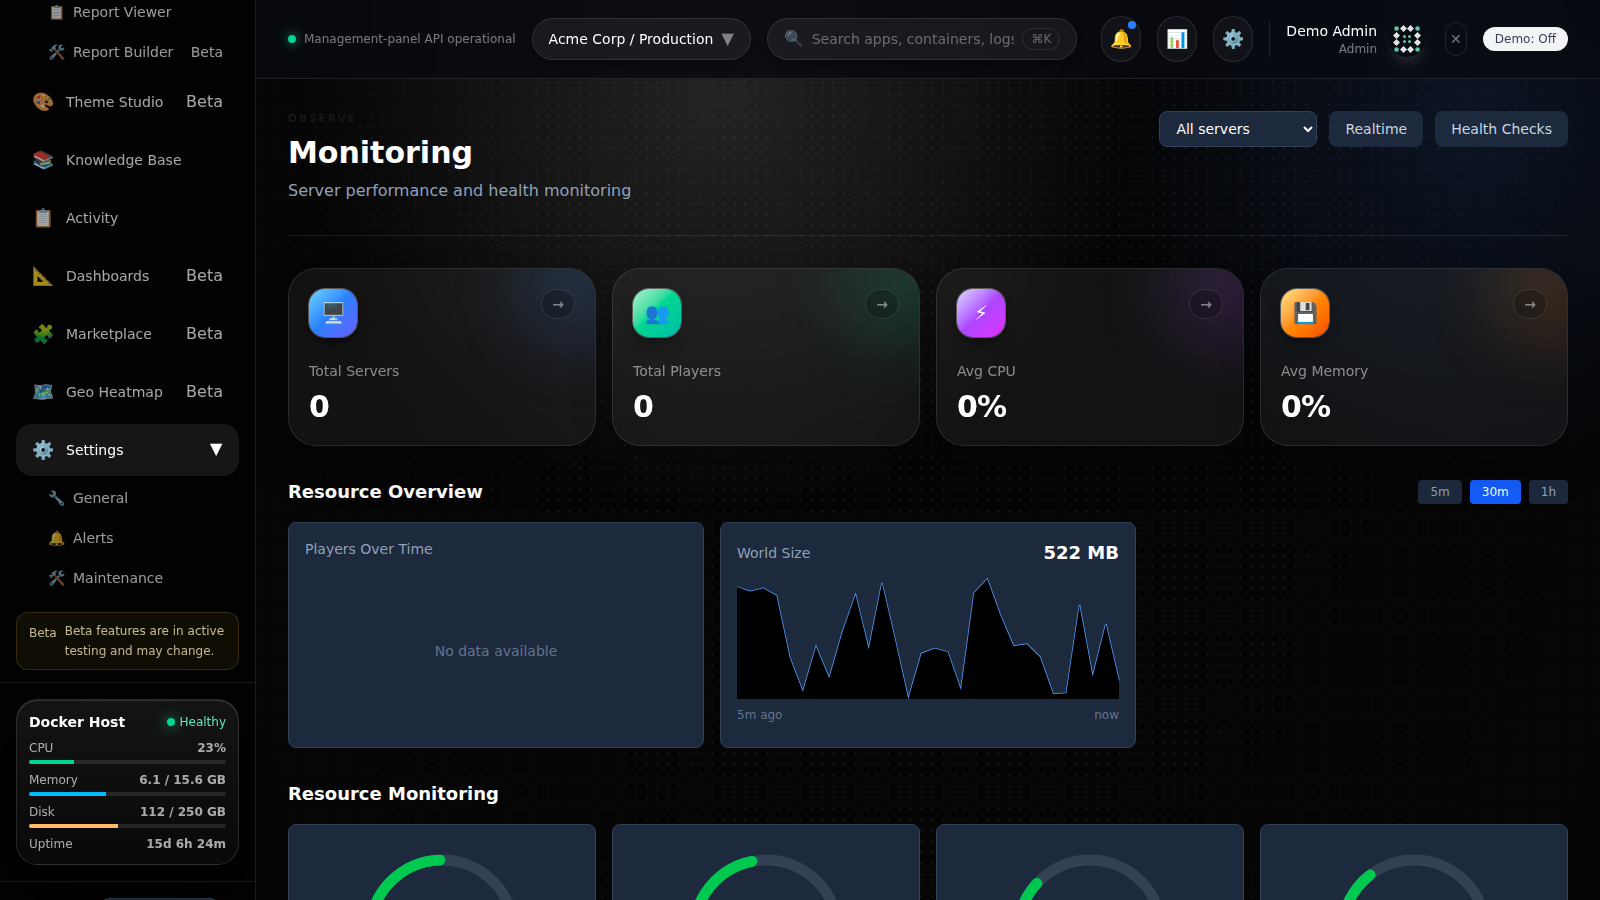
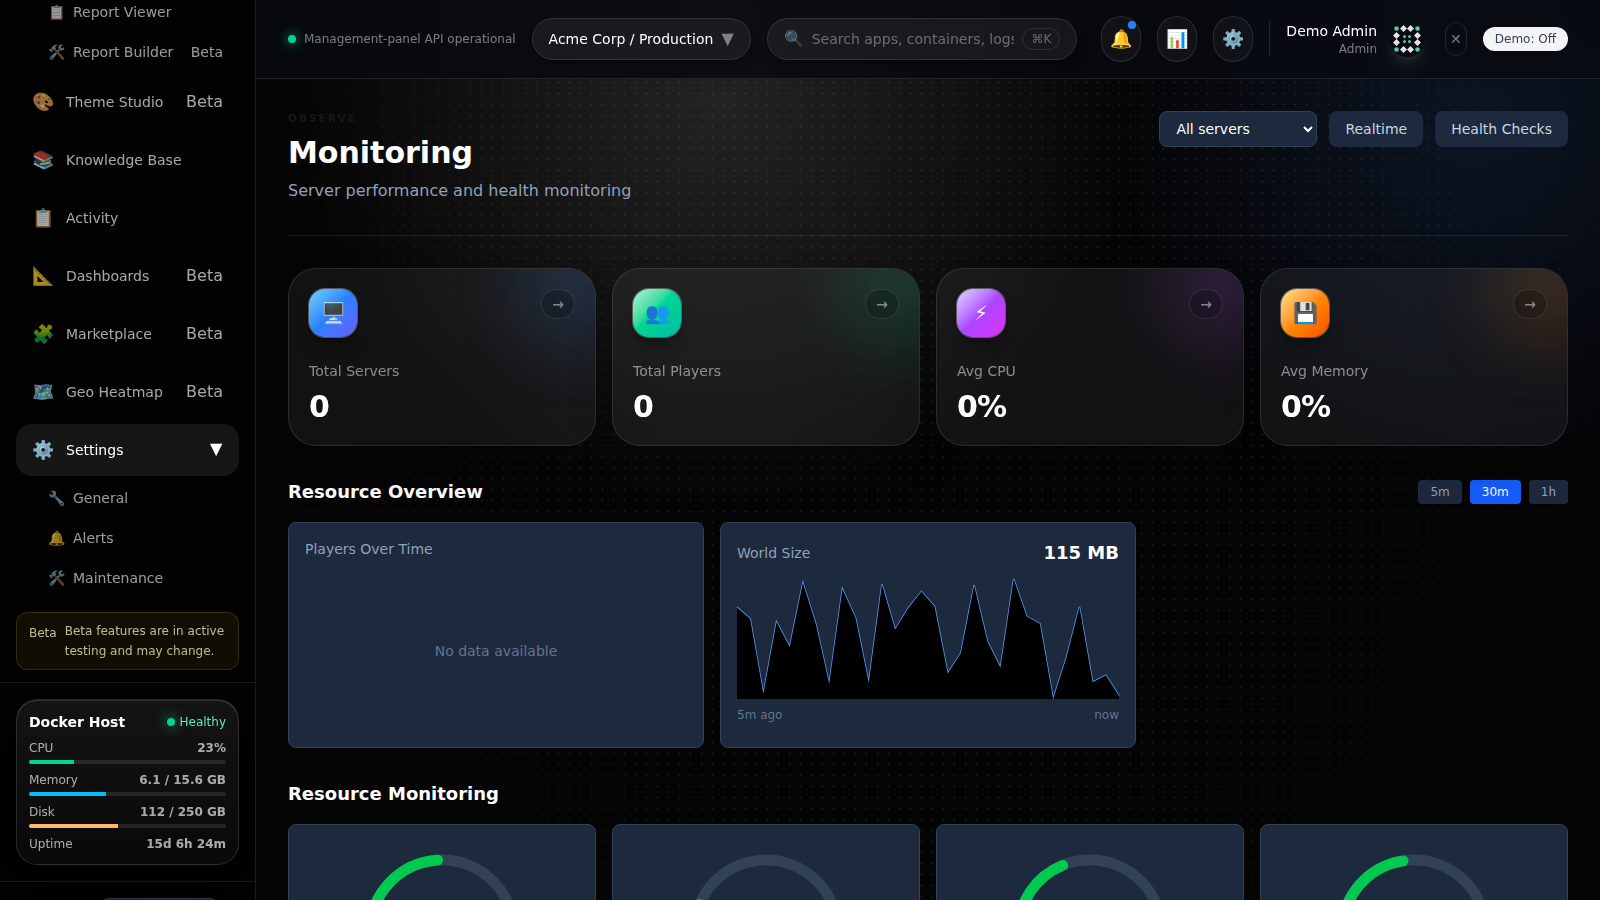
fun(welle-3): Zeit, Forensik, Gedaechtnis (10 Features, neue Dateien … (#470)
* fun(welle-3): Zeit, Forensik, Gedaechtnis (10 Features, neue Dateien only)

* docs(screenshots): refresh panel captures [skip ci]

* docs(screenshots): refresh panel captures [skip ci]

---------

diff --git a/services/management-panel/src/fun/wave3.ts b/services/management-panel/src/fun/wave3.ts
@@ -1,0 +1,22 @@
+// Welle 3: Widget-Deskriptoren (reine Daten, kein JSX -> build-sicher).
+
+export interface FunWidget {
+  key: string;
+  title: string;
+  endpoint: string;
+  flag: string;
+}
+
+export const WAVE3_WIDGETS: FunWidget[] = [
+  { key: "zeitmaschine", title: "Zeitmaschinen-Slider", endpoint: "/api/fun/zeitmaschine", flag: "fun.welle3.zeitmaschine" },
+  { key: "tatort", title: "Was war um 3 Uhr nachts?", endpoint: "/api/fun/tatort", flag: "fun.welle3.tatort" },
+  { key: "genealogie", title: "Deploy-Genealogie", endpoint: "/api/fun/genealogie", flag: "fun.welle3.genealogie" },
+  { key: "karteileichen", title: "Vergessene Container", endpoint: "/api/fun/karteileichen", flag: "fun.welle3.karteileichen" },
+  { key: "prophezeiungen", title: "Prophezeiungs-Protokoll", endpoint: "/api/fun/prophezeiungen", flag: "fun.welle3.prophezeiungen" },
+  { key: "ahnenpass", title: "Ahnenpass für Secrets", endpoint: "/api/fun/ahnenpass/:name", flag: "fun.welle3.ahnenpass" },
+  { key: "echolot", title: "Echolot", endpoint: "/api/fun/echolot", flag: "fun.welle3.echolot" },
+];
+
+export const WAVE3_FLAGS: Record<string, boolean> = Object.fromEntries(
+  WAVE3_WIDGETS.map((w) => [w.flag, false]),
+);

diff --git a/services/orchestrator-agent/fun_wave3.py b/services/orchestrator-agent/fun_wave3.py
@@ -1,0 +1,93 @@
+"""Welle 3: Zeit, Forensik, Gedaechtnis (Features 21-30).
+
+Read-only Rekonstruktion aus Audit + Metriken + Manifest-Historie.
+Schreibt nur verdichtete Snapshots (Retention: 90 Tage, danach Tages-Aggregate).
+"""
+
+import hashlib
+from datetime import datetime, timezone
+
+WAVE = 3
+FEATURES = [
+    "zeitmaschinen-slider",
+    "drei-uhr-nachts",
+    "deploy-genealogie",
+    "karteileichen",
+    "flaschenpost",
+    "time-capsule",
+    "geraeusch-archiv",
+    "prophezeiungs-protokoll",
+    "ahnenpass-secrets",
+    "echolot",
+]
+
+
+def zeitmaschine(snapshots: list, zeitpunkt: str) -> dict:
+    """Feature 21: Flottenzustand zu Zeitpunkt t rekonstruieren (read-only)."""
+    past = [s for s in snapshots if s.get("ts", "") <= zeitpunkt]
+    jetzt = snapshots[-1] if snapshots else {}
+    return {"zeitpunkt": zeitpunkt, "zustand": past[-1] if past else None,
+            "diff_zu_jetzt": {"felder": [k for k in jetzt if past and past[-1].get(k) != jetzt.get(k)] if past else []},
+            "read_only": True}
+
+
+def tatort_akte(alerts: list, deploys: list, crons: list, log_spitzen: list) -> dict:
+    """Feature 22: 'Was war um 3 Uhr nachts?' -> einseitige Tatort-Akte."""
+    ereignisse = (
+        [{"typ": "alert", **a} for a in alerts]
+        + [{"typ": "deploy", **d} for d in deploys]
+        + [{"typ": "cron", **c} for c in crons]
+        + [{"typ": "log-spitze", **s} for s in log_spitzen]
+    )
+    ereignisse.sort(key=lambda e: e.get("ts", ""))
+    return {"titel": "Tatort-Akte", "ereignisse": ereignisse, "anzahl": len(ereignisse)}
+
+
+def genealogie(image: str, eltern: list, base_images: list) -> dict:
+    """Feature 23: Stammbaum eines laufenden Images."""
+    return {"image": image, "eltern": eltern, "grosseltern": base_images}
+
+
+def karteileichen(apps: list, tage_schwelle: int = 90) -> dict:
+    """Feature 24: Container ohne Traffic/Owner/Deploy seit X Tagen. Loescht nie selbst."""
+    leichen = [a.get("name") for a in apps
+               if a.get("tage_ohne_traffic", 0) >= tage_schwelle and not a.get("owner")]
+    return {"karteileichen": leichen, "vorschlag": "archivieren?", "auto_delete": False}
+
+
+def flaschenpost_legen(nachricht: str, trigger: str = "crash") -> dict:
+    """Feature 25: Nachricht an den naechsten On-Call bei trigger."""
+    return {"nachricht": nachricht[:500], "trigger": trigger,
+            "id": hashlib.sha256(nachricht.encode()).hexdigest()[:8]}
+
+
+def prophezeiung(metrik: str, rest_tage: float) -> dict:
+    """Feature 28: Vorhersage + spaetere Selbstbenotung."""
+    return {"ereignis": metrik, "prognose_tage": round(rest_tage, 1),
+            "trefferquote_bisher": None, "selbstbenotung": "ausstehend"}
+
+
+def ahnenpass(secret_name: str, fingerprint: str, alter_tage: int, rotationen: int, letzte_rolle: str) -> dict:
+    """Feature 29: nur Metadaten, niemals Werte."""
+    return {"secret": secret_name, "fingerprint": fingerprint[:16],
+            "alter_tage": alter_tage, "rotationen": rotationen,
+            "zuletzt_rotiert_von_rolle": letzte_rolle, "wert_niemals_enthalten": True}
+
+
+def echolot(route: list) -> dict:
+    """Feature 30: synthetische Pings durch die echte Kette als Sonarbild."""
+    hops = [{"station": r, "tiefe": i + 1} for i, r in enumerate(route)]
+    return {"sonar": hops, "hops": len(hops)}
+
+
+def register_fun_wave3(app) -> None:
+    """Attach read-only routes to an aiohttp app (optional wiring)."""
+    from aiohttp import web
+
+    async def _ahnenpass(request: web.Request) -> web.Response:
+        q = request.rel_url.query
+        return web.json_response(ahnenpass(
+            request.match_info["name"], q.get("fp", ""), int(q.get("alter", 0) or 0),
+            int(q.get("rot", 0) or 0), q.get("rolle", "unbekannt")))
+
+    app.router.add_get("/api/fun/ahnenpass/{name}", _ahnenpass)

diff --git a/cli/ipilot/commands/fun_wave3.py b/cli/ipilot/commands/fun_wave3.py
@@ -1,0 +1,44 @@
+"""Welle-3 CLI: Forensik-Helfer (read-only, brauchen keine API)."""
+
+import typer
+
+app = typer.Typer(help="Welle 3: Zeitmaschine, Tatort-Akte, Echolot & Co.")
+
+
+@app.command()
+def tatort():
+    """Demo-Tatort-Akte aus Beispiel-Events."""
+    import sys
+
+    sys.path.insert(0, "services/orchestrator-agent")
+    from fun_wave3 import tatort_akte as _t
+
+    akte = _t([{"ts": "03:12", "text": "OOM worker"}],
+              [{"ts": "03:05", "text": "deploy api v42"}], [], [])
+    typer.echo(f"Tatort-Akte: {akte['anzahl']} Ereignisse")
+    for e in akte["ereignisse"]:
+        typer.echo(f"  {e['ts']} [{e['typ']}] {e['text']}")
+
+
+@app.command()
+def echolot(stationen: str = "dns,lb,api,db-read"):
+    """Echolot-Route als Sonarbild."""
+    import sys
+
+    sys.path.insert(0, "services/orchestrator-agent")
+    from fun_wave3 import echolot as _e
+
+    for hop in _e(stationen.split(","))["sonar"]:
+        typer.echo(f"{'~' * hop['tiefe']} {hop['station']}")
+
+
+@app.command()
+def flaschenpost(nachricht: str, trigger: str = "crash"):
+    """Flaschenpost fuer den naechsten On-Call hinterlegen."""
+    import sys
+
+    sys.path.insert(0, "services/orchestrator-agent")
+    from fun_wave3 import flaschenpost_legen as _f
+
+    r = _f(nachricht, trigger)
+    typer.echo(f"Flaschenpost {r['id']} hinterlegt (trigger: {r['trigger']})")
